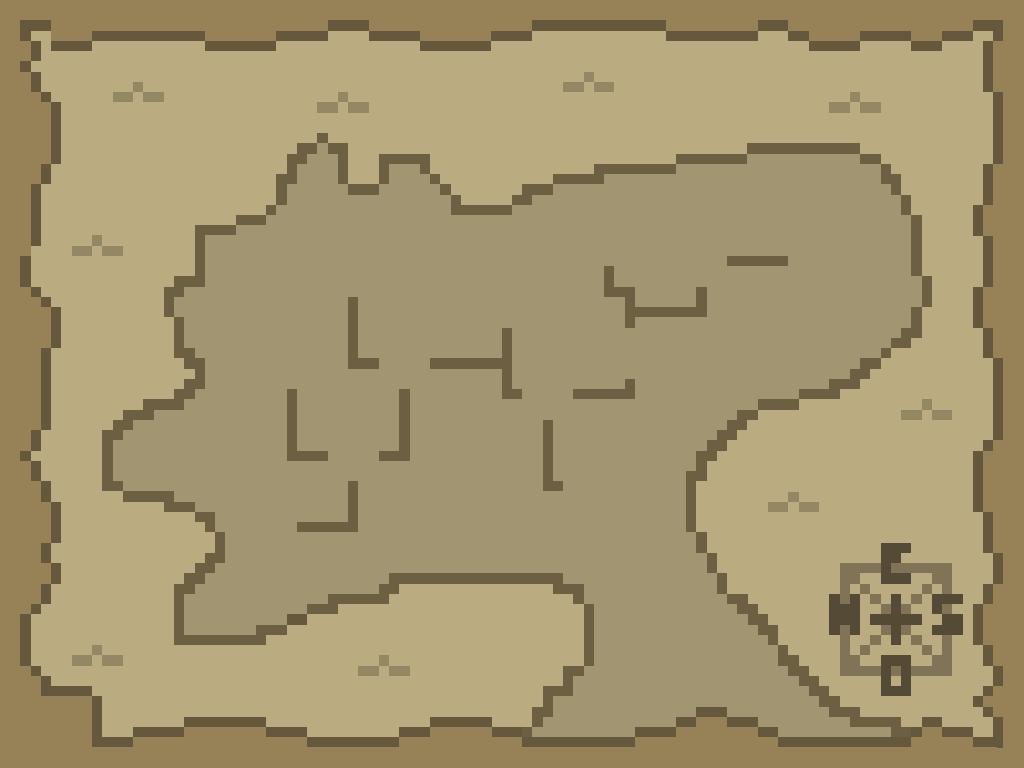
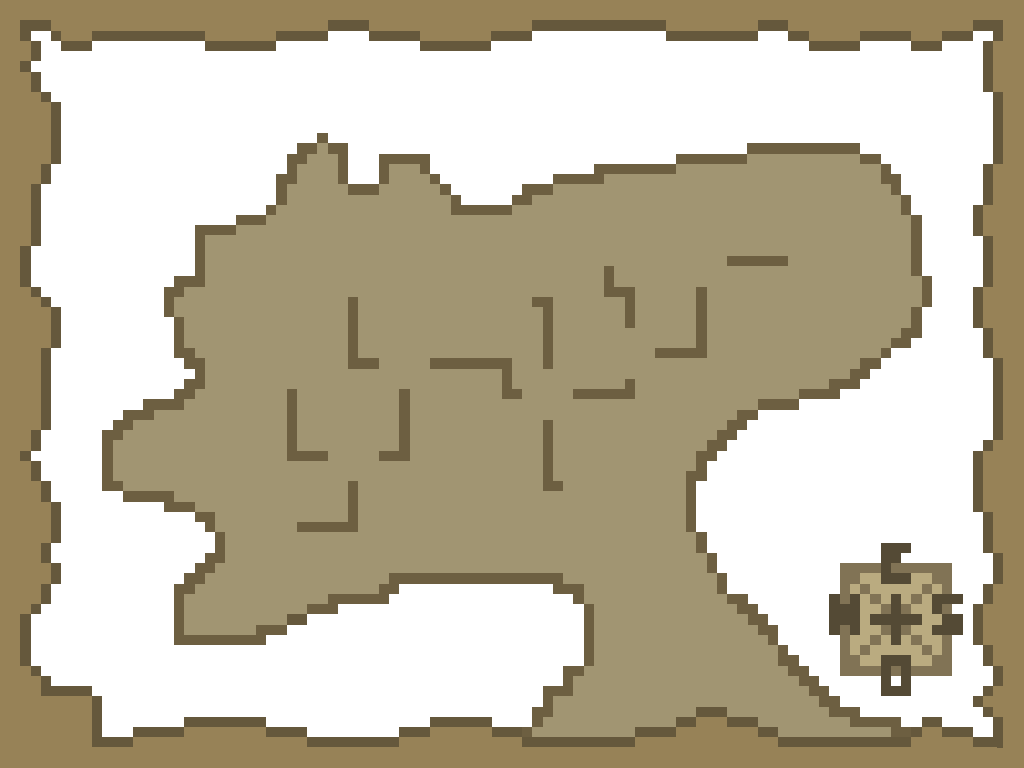
Fix de la imagen del mapa y animación por detrás

diff --git a/src/scenes/levelMenuScene.js b/src/scenes/levelMenuScene.js
@@ -82,7 +82,8 @@ export default class LevelMenuScene extends Phaser.Scene {
 	 */
 	preload(){
 		// Fondo
-		this.load.spritesheet('levelMap', 'assets/scenes/levelsMenu/wavesMap_anim.png', { frameWidth: 1024, frameHeight: 768 });
+		this.load.spritesheet('waves', 'assets/scenes/levelsMenu/waves_anim.png', { frameWidth: 1024, frameHeight: 768 });
+		this.load.image('levelMap', 'assets/scenes/levelsMenu/emptyMap.png');
 		
 		// Imagen de botones
 		this.load.spritesheet('level', 'assets/scenes/levelsMenu/levelsButtons.png', {frameWidth: 51, frameHeight: 51});
@@ -102,12 +103,13 @@ export default class LevelMenuScene extends Phaser.Scene {
 
 		// Fondo
 		this.anims.create({
-			key: 'levelMap',
-			frames: this.anims.generateFrameNumbers('levelMap', {start: 0, end: 9}),
+			key: 'waves',
+			frames: this.anims.generateFrameNumbers('waves', {start: 0, end: 9}),
 			frameRate: 10,
 			repeat: -1
 		});
-		this.add.sprite(1024, 768).setOrigin(1,1).play('levelMap');
+		this.add.sprite(1024, 768).setOrigin(1,1).play('waves');
+		let bg = this.add.image(0,0, 'levelMap').setOrigin(0, 0);
 
 		this.keyboardInput = new KeyboardInput(this);
 		// Botón de inventario
